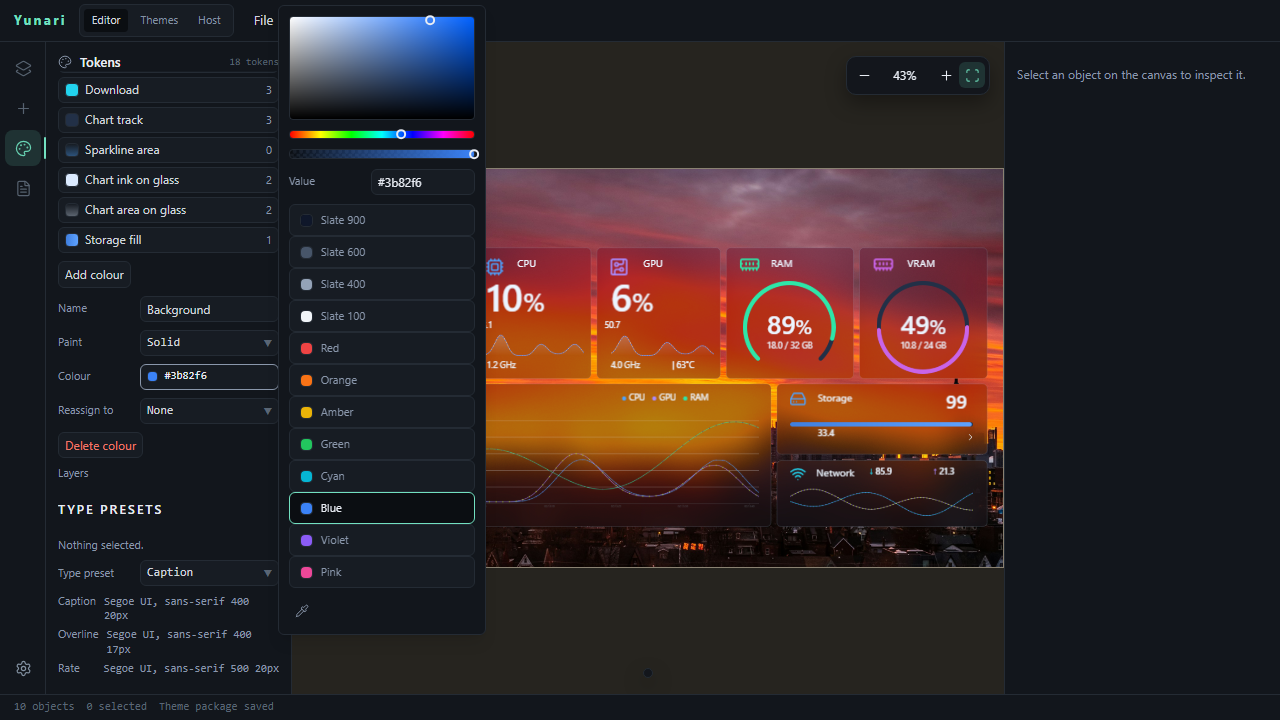
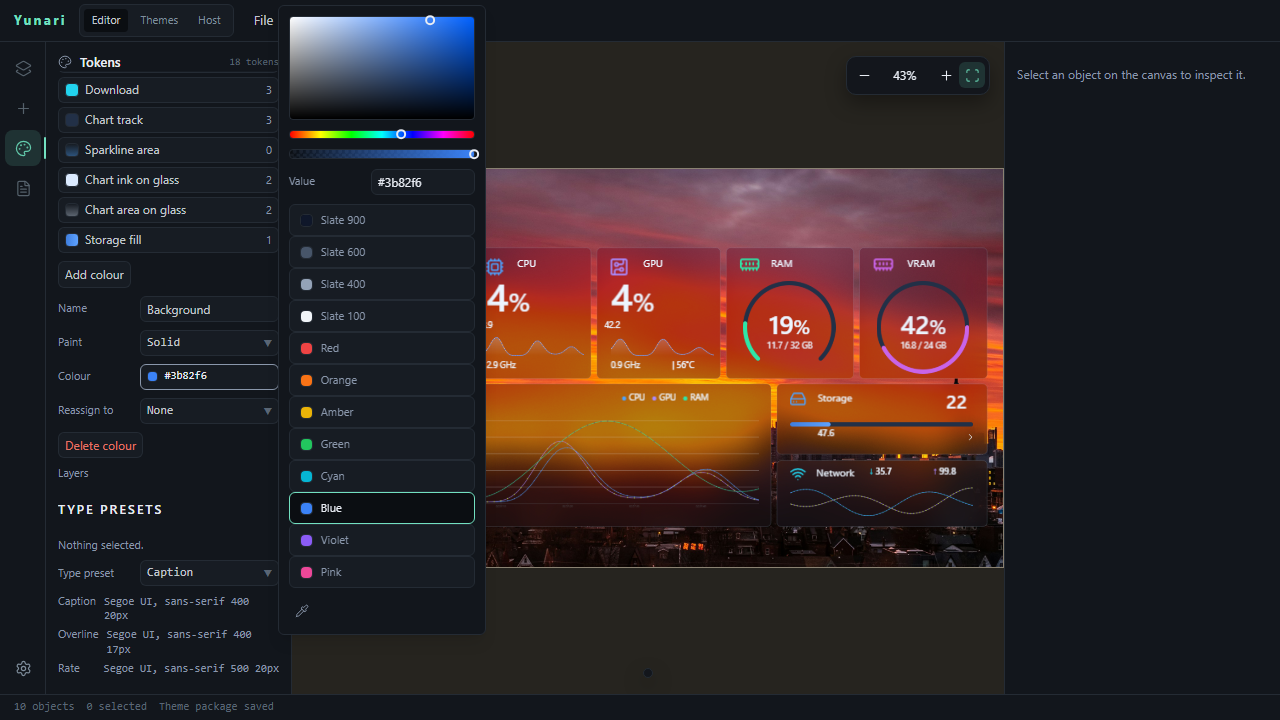
fix(editor): paint the picker's focus boundary and prove the registered evidence actions
`outline-none` set `--tw-outline-style: none`, which the focus-visible utilities read, so the area and channel tracks drew no ring; the variant utilities alone now paint it, and the browser case asserts outline style, width and the drawn pixel before measuring contrast.

The capture cases are titled as the evidence registry's regexes spell them, and the gradient case drags a stop and types 25% before capturing. A fixed 200ms wait is replaced by the trigger readout, and five repaired browser cases outside the focused grep were run individually.

vg-709 files the crossing drag and typed offset (issue #52, retitled to name the typed path); STATUS names the real queue.

diff --git a/src/web/tests/e2e/colour-picker.spec.ts b/src/web/tests/e2e/colour-picker.spec.ts
@@ -193,15 +193,16 @@ test.describe("the colour picker and the gradient track", () => {
     );
 
     // A second press has no further step to walk: one drag is one entry, so it
-    // cannot rewind one pre-drag sample per pointer move.
+    // cannot rewind one pre-drag sample per pointer move. The readout is the
+    // rendered fact that settles the key; the save reads the document behind it.
     await page.keyboard.press("Control+z");
-    await page.waitForTimeout(200);
+    await expect(triggerValue).toHaveText(beforeText ?? "");
     expect(paletteOf(await saveEnvelope(page)).background?.value).toEqual(
       before,
     );
   });
 
-  test("keeps the gradient track's drag and its number in agreement", async ({
+  test("moves a gradient stop by drag and by number, then adds one on the track", async ({
     page,
   }, testInfo) => {
     test.skip(!isDesktopSurface(testInfo), "the editor is a desktop surface");
@@ -350,23 +351,47 @@ test.describe("the colour picker and the gradient track", () => {
 
       const reading = await area.evaluate((element) => {
         const rect = element.getBoundingClientRect();
+        const style = getComputedStyle(element);
         return {
           focusVisible: element.matches(":focus-visible"),
-          outline: getComputedStyle(element).outlineColor,
-          point: { x: rect.left - 4, y: rect.top + rect.height / 2 },
+          outline: style.outlineColor,
+          outlineStyle: style.outlineStyle,
+          outlineWidth: style.outlineWidth,
+          groundPoint: { x: rect.left - 4, y: rect.top + rect.height / 2 },
+          outlinePoint: { x: rect.left - 1, y: rect.top + rect.height / 2 },
         };
       });
       expect(
         reading.focusVisible,
         `${palette}: the focused area does not match :focus-visible`,
       ).toBe(true);
+      // A colour alone cannot prove a boundary exists: with no outline rule
+      // `outlineColor` falls back to `currentColor` and still clears 3:1.
+      expect(
+        reading.outlineStyle,
+        `${palette}: the focused area has no outline style`,
+      ).not.toBe("none");
+      expect(
+        Number.parseFloat(reading.outlineWidth),
+        `${palette}: the focused area's outline has no width`,
+      ).toBeGreaterThan(0);
 
       // The outline is drawn outside the area's border, over the popup's own
       // padding, so the pixel beside it is the colour the boundary has to read
-      // against.
-      const pixel = await pixelAt(page, reading.point);
+      // against, and the pixel one step out is the boundary itself.
+      const pixel = await pixelAt(page, reading.groundPoint);
+      const drawn = await pixelAt(page, reading.outlinePoint);
+      const outlineChannels = channelsOf(reading.outline);
+      expect(
+        Math.max(
+          ...outlineChannels.map((channel, index) =>
+            Math.abs(channel - (drawn[index] ?? 0)),
+          ),
+        ),
+        `${palette}: the pixel beside the area is not the outline colour`,
+      ).toBeLessThanOrEqual(32);
       const ratio =
-        Math.round(contrast(channelsOf(reading.outline), pixel) * 100) / 100;
+        Math.round(contrast(outlineChannels, pixel) * 100) / 100;
       ratios.push(`${palette} focus-boundary ${ratio}:1 (${reading.outline})`);
       if (ratio < 3) {
         failures.push(
@@ -386,7 +411,7 @@ test.describe("the colour picker and the gradient track", () => {
     });
   });
 
-  test("picks a palette colour and commits it through the popover", async ({
+  test("picks a palette colour in the picker and commits it through the popover", async ({
     page,
   }, testInfo) => {
     test.skip(!isDesktopSurface(testInfo), "the editor is a desktop surface");
@@ -407,7 +432,7 @@ test.describe("the colour picker and the gradient track", () => {
     await captureVisualReview(page, testInfo, "editor-colour-picker");
   });
 
-  test("builds a gradient with the track and its preset row visible", async ({
+  test("builds a gradient with a drag and a number while its preset row is visible", async ({
     page,
   }, testInfo) => {
     test.skip(!isDesktopSurface(testInfo), "the editor is a desktop surface");
@@ -418,6 +443,29 @@ test.describe("the colour picker and the gradient track", () => {
     await page
       .getByTestId("gradient-preset-default-gradient-vital-ocean")
       .click();
+
+    // The registered action is a stop edited by drag *and* by number, so the
+    // picture has to show both edits rather than only the preset that seeded it.
+    const trackBox = await page.getByTestId("gradient-track").boundingBox();
+    const stopBox = await page.getByTestId("gradient-stop-0").boundingBox();
+    if (trackBox === null || stopBox === null) {
+      throw new Error("the gradient track or its first stop has no box");
+    }
+    await page.mouse.move(
+      stopBox.x + stopBox.width / 2,
+      stopBox.y + stopBox.height / 2,
+    );
+    await page.mouse.down();
+    await page.mouse.move(
+      trackBox.x + trackBox.width * 0.2,
+      trackBox.y + trackBox.height / 2,
+      { steps: 8 },
+    );
+    await page.mouse.up();
+    const offset = page.getByTestId("gradient-offset");
+    await typeIntoControl(page, offset, 25);
+    await expect(offset).toHaveValue("25");
+
     await expect(page.getByTestId("gradient-track")).toBeVisible();
     await expect(
       page.getByTestId("gradient-preset-default-gradient-vital-ocean"),

diff --git a/src/web/packages/editor/src/components/ui/colour-picker.tsx b/src/web/packages/editor/src/components/ui/colour-picker.tsx
@@ -95,7 +95,7 @@ function ChannelTrack({
       aria-valuemin={range.min}
       aria-valuemax={range.max}
       aria-valuenow={Math.round(value)}
-      className="relative h-3 w-full touch-none rounded-sm border border-edge outline-none focus-visible:outline focus-visible:outline-2 focus-visible:outline-accent"
+      className="relative h-3 w-full touch-none rounded-sm border border-edge focus-visible:outline-2 focus-visible:outline-accent"
       style={{ background }}
       onPointerDown={(event) => {
         event.currentTarget.setPointerCapture(event.pointerId);
@@ -273,7 +273,7 @@ export function ColourPicker({
                 aria-valuemax={100}
                 aria-valuenow={Math.round(saturation)}
                 aria-valuetext={areaValueText(api.hsva, api.text)}
-                className="relative h-32 w-full touch-none rounded-sm border border-edge outline-none focus-visible:outline focus-visible:outline-2 focus-visible:outline-accent"
+                className="relative h-32 w-full touch-none rounded-sm border border-edge focus-visible:outline-2 focus-visible:outline-accent"
                 style={{
                   background: `linear-gradient(to top, hsl(0 0% 0%), transparent), linear-gradient(to right, hsl(0 0% 100%), hsl(${hue} 100% 50%))`,
                 }}

diff --git a/STATUS.md b/STATUS.md
@@ -13,16 +13,17 @@ The **colour and gradient picker rebuild** ([`spec`](docs/superpowers/specs/2026
 
 ## Last completed change
 
-- **The colour and gradient picker rebuild is closed**: Task 10's browser proof landed in `2a1388fc`, `vg-405` and `vg-439` are `verified` in `docs/product/backlog-archive.jsonl`, and the plan moved to `docs/superpowers/plans/archive/`.
-- **Task 10 proves both surfaces in Chromium**: one undo entry per drag, gradient drag/number agreement, preset application, preset deletion across reload, and the focus boundary in all six palettes (5.68–18.39:1).
-- **Evidence**: `editor-colour-picker` and `editor-gradient-editor` are captured and registered; `npm run gate` and `npm run backlog:check` exit 0.
+- **The picker's focus boundary now exists and is measured**: `outline-none` poisoned Tailwind's `--tw-outline-style`, so the area and tracks drew no ring; the variant utilities alone now paint a 2px accent ring and the browser case asserts style, width and the drawn pixel before its 3:1 contrast.
+- **The two evidence rows select their cases**: the capture cases are titled `picks a palette colour in the picker…` and `builds a gradient with a drag and a number…`, and the gradient case drags a stop and types `25` before capturing.
+- **Five repaired browser cases were run**, not only the focused grep: both `editor.spec.ts` picker cases, the `keyboard.spec.ts` anchor case, `panel-labels.spec.ts`'s audit and the `glass-authoring.spec.ts` history case all pass.
+- **`vg-709` is filed open** for a drag or typed offset crossing a neighbouring stop (issue #52), from Task 10's browser proof.
 
 ## Next
 
-1. Name the next plan; `2026-10-21-asset-finder.md` and `2026-10-12-the-backlog-drain.md` are queued, not active.
+1. No plan is active until the controller names one; `2026-10-12-the-backlog-drain.md`, `2026-10-21-theme-store-origin-and-style.md` and `2026-10-23-r2-store-backend.md` are queued.
 
 ## Blockers / unverified
 
 - **The picker popup is 630px tall with twelve seeded presets** (Task 5's deferred finding): it fits neither above nor below the Tokens well at 720px, so Base UI places it to the right, clamped inside the viewport; the capture shows no clipping, but the unbounded height is unchanged.
-- **A gradient stop dragged past its neighbour still writes descending offsets** and the validator refuses the document (issue #52); the insertion half was fixed in Task 10.
-- **The gradient capture's fixed status footer overlaps the last preset row** in the scoped element screenshot; the track and the preset row the checklist names are both visible.
+- **A gradient stop moved past its neighbour still writes descending offsets** and the validator refuses the document (`vg-709`, issue #52).
+- **The gradient capture's fixed status footer overlaps the last preset row** in the scoped element screenshot; the track, the `25 %` position and the preset row are all visible.
